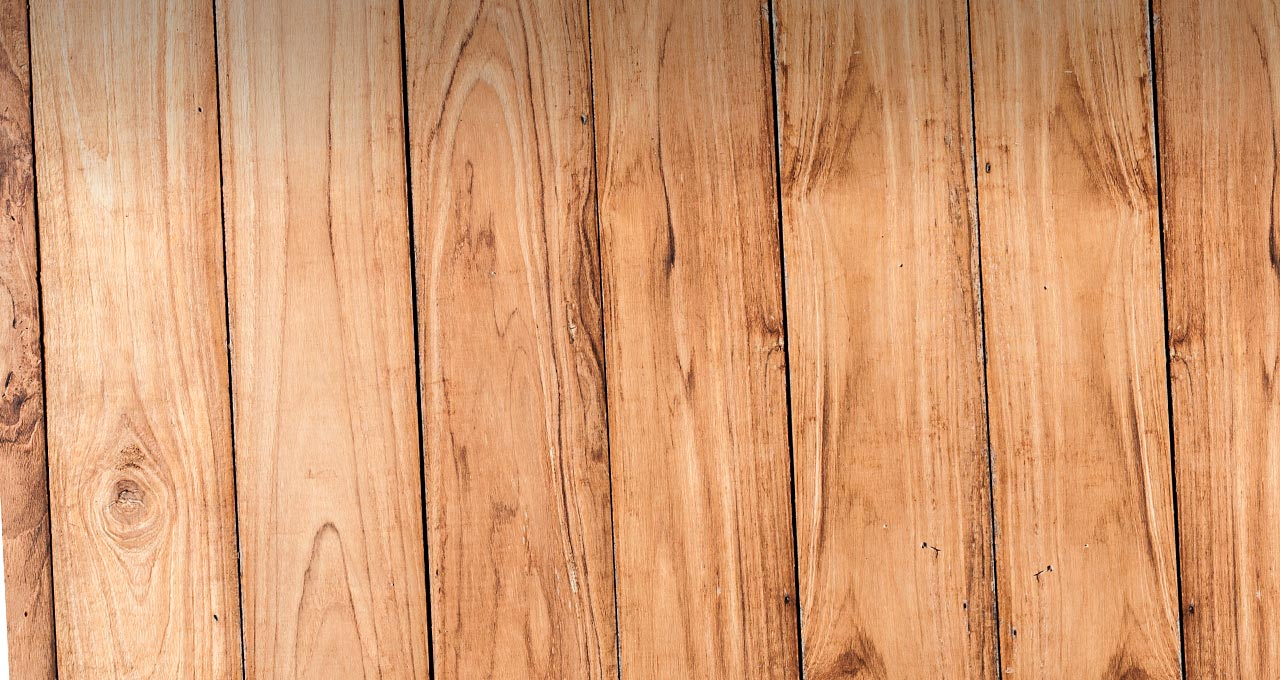
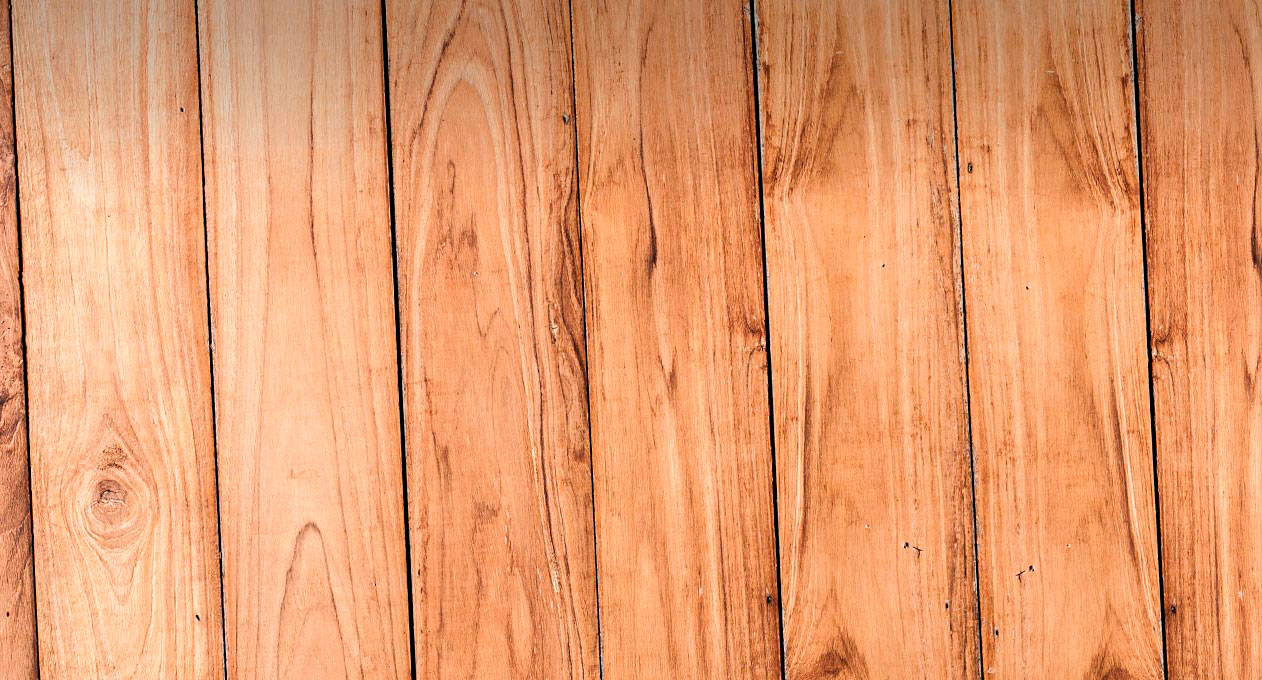
Añadidas todas las transiciones y corregido el fondo de madera 2 que tenía un corte desde el png

diff --git a/css/style.css b/css/style.css
@@ -576,6 +576,8 @@
   height: 70%;
   overflow: hidden;
   margin-top: 50px;
+  -webkit-transition: all 300ms ease-in-out;
+  transition: all 300ms ease-in-out;
 }
 
 @media (min-width: 365px) {
@@ -776,6 +778,8 @@
   height: 65%;
   z-index: 10;
   padding-top: 20px;
+  -webkit-transition: all 300ms ease-in-out;
+  transition: all 300ms ease-in-out;
 }
 
 @media (min-width: 365px) {
@@ -806,8 +810,6 @@
   text-align: center;
   width: 100%;
   height: 100%;
-  -webkit-transition: all 300ms ease-in-out;
-  transition: all 300ms ease-in-out;
 }
 
 .sabor_interior_cont .sabor_interior_texto .sabor_interior_titulo {
@@ -1185,51 +1187,51 @@
           transform: translate(-50%, -50%) rotate(-345deg) scale(0);
 }
 
-.sabor_interior_cont .sabor_interior_texto.rotate-scale {
+.sabor_interior_cont.rotate-scale, .receta_interior_contenedor.rotate-scale {
   -webkit-transform: translate(100%, 0) scale(0);
           transform: translate(100%, 0) scale(0);
 }
 
-.sabor_interior_cont .sabor_interior_texto.rotate-scale2 {
+.sabor_interior_cont.rotate-scale2, .receta_interior_contenedor.rotate-scale2 {
   -webkit-animation: scale-easeOutBounce-texto 500ms forwards;
           animation: scale-easeOutBounce-texto 500ms forwards;
 }
 
 @-webkit-keyframes scale-easeOutBounce-texto {
   0% {
-    -webkit-transform: translate(100%, 0) scale(0.3);
-            transform: translate(100%, 0) scale(0.3);
+    -webkit-transform: translate(0%, 0) scale(0.3);
+            transform: translate(0%, 0) scale(0.3);
   }
   50% {
-    -webkit-transform: translate(0, 0) scale(1.1);
-            transform: translate(0, 0) scale(1.1);
+    -webkit-transform: translate(-100%, 0) scale(1.1);
+            transform: translate(-100%, 0) scale(1.1);
   }
   80% {
-    -webkit-transform: translate(0, 0) scale(0.95);
-            transform: translate(0, 0) scale(0.95);
+    -webkit-transform: translate(-100%, 0) scale(0.95);
+            transform: translate(-100%, 0) scale(0.95);
   }
   100% {
-    -webkit-transform: translate(0, 0) scale(1);
-            transform: translate(0, 0) scale(1);
+    -webkit-transform: translate(-100%, 0) scale(1);
+            transform: translate(-100%, 0) scale(1);
   }
 }
 
 @keyframes scale-easeOutBounce-texto {
   0% {
-    -webkit-transform: translate(100%, 0) scale(0.3);
-            transform: translate(100%, 0) scale(0.3);
+    -webkit-transform: translate(0%, 0) scale(0.3);
+            transform: translate(0%, 0) scale(0.3);
   }
   50% {
-    -webkit-transform: translate(0, 0) scale(1.1);
-            transform: translate(0, 0) scale(1.1);
+    -webkit-transform: translate(-100%, 0) scale(1.1);
+            transform: translate(-100%, 0) scale(1.1);
   }
   80% {
-    -webkit-transform: translate(0, 0) scale(0.95);
-            transform: translate(0, 0) scale(0.95);
+    -webkit-transform: translate(-100%, 0) scale(0.95);
+            transform: translate(-100%, 0) scale(0.95);
   }
   100% {
-    -webkit-transform: translate(0, 0) scale(1);
-            transform: translate(0, 0) scale(1);
+    -webkit-transform: translate(-100%, 0) scale(1);
+            transform: translate(-100%, 0) scale(1);
   }
 }
 

diff --git a/js/tang.js b/js/tang.js
@@ -236,7 +236,12 @@ var app = {
             $(".plasta_circular").addClass('bounce-scale');
             $(".izquierdo .sobre").addClass("rotate-scale");
             //Se añaden clases que animan el texto para que tenga una transición parecida a la plasta
-            $(".sabor_interior_cont .sabor_interior_texto").addClass("rotate-scale");
+            $(".sabor_interior_cont, .receta_interior_contenedor").addClass("rotate-scale");
+            $(".receta_interior_cont").fadeOut(300, function(){
+                setTimeout(function() {
+                    $(".receta_interior_cont").fadeIn(400);
+                }, 400);
+            });
             setTimeout(function(){
                 //Se manda llamar la función que cambia los elementos con base en el JSON
                 if($(this).hasClass('izquierda')){
@@ -253,11 +258,11 @@ var app = {
                 //Se regresan a su estado original los elementos quitando las clases o añadiendo nuevas para mejorar la animación
                 $(".plasta_circular").addClass('bounce-scale2');
                 $(".izquierdo .sobre").removeClass("rotate-scale");
-                $(".sabor_interior_cont .sabor_interior_texto").addClass("rotate-scale2");
+                $(".sabor_interior_cont, .receta_interior_contenedor").addClass("rotate-scale2");
                 setTimeout(function(){
                     // Se quitan todas las clases para reiniciar las animaciones
-                    $(".sabor_interior_cont .sabor_interior_texto").removeClass("rotate-scale");
-                    $(".sabor_interior_cont .sabor_interior_texto").removeClass("rotate-scale2");
+                    $(".sabor_interior_cont, .receta_interior_contenedor").removeClass("rotate-scale");
+                    $(".sabor_interior_cont, .receta_interior_contenedor").removeClass("rotate-scale2");
                     $(".plasta_circular").removeClass('bounce-scale');
                     $(".plasta_circular").removeClass('bounce-scale2');
                 }, 510);

diff --git a/scss/_keyframes.scss b/scss/_keyframes.scss
@@ -36,25 +36,25 @@
 
 //SOBRE INTERIOR
 
-.sabor_interior_cont .sabor_interior_texto.rotate-scale{
+.sabor_interior_cont.rotate-scale, .receta_interior_contenedor.rotate-scale{
     transform: translate(100%, 0) scale(0);
 }
-.sabor_interior_cont .sabor_interior_texto.rotate-scale2{
+.sabor_interior_cont.rotate-scale2, .receta_interior_contenedor.rotate-scale2{
     animation: scale-easeOutBounce-texto 500ms forwards;
 }
 
 @keyframes scale-easeOutBounce-texto {
     0% {
-        transform: translate(100%, 0) scale(0.3);
+        transform: translate(0%, 0) scale(0.3);
     }
     50% {
-        transform: translate(0, 0) scale(1.1);
+        transform: translate(-100%, 0) scale(1.1);
     }
     80% {
-        transform: translate(0, 0) scale(0.95);
+        transform: translate(-100%, 0) scale(0.95);
     }
     100% {
-        transform: translate(0, 0) scale(1);
+        transform: translate(-100%, 0) scale(1);
     }
 
 }

diff --git a/scss/_sobres.scss b/scss/_sobres.scss
@@ -29,6 +29,7 @@
     height: 65%;
     z-index: 10;
     padding-top: 20px;
+    transition: all 300ms ease-in-out;
     @include med-query($petit){
         height: 80%;
         padding-top: 50px;
@@ -46,7 +47,6 @@
         text-align: center;
         width: 100%;
         height: 100%;
-        transition: all 300ms ease-in-out;
         .sabor_interior_titulo{
             color: color(blanco);
             font-weight: bold;

diff --git a/scss/_recetas.scss b/scss/_recetas.scss
@@ -29,6 +29,7 @@
     height: 70%;
     overflow: hidden;
     margin-top: 50px;
+    transition: all 300ms ease-in-out;
     @include med-query($petit){
         height: 80%;
     }
